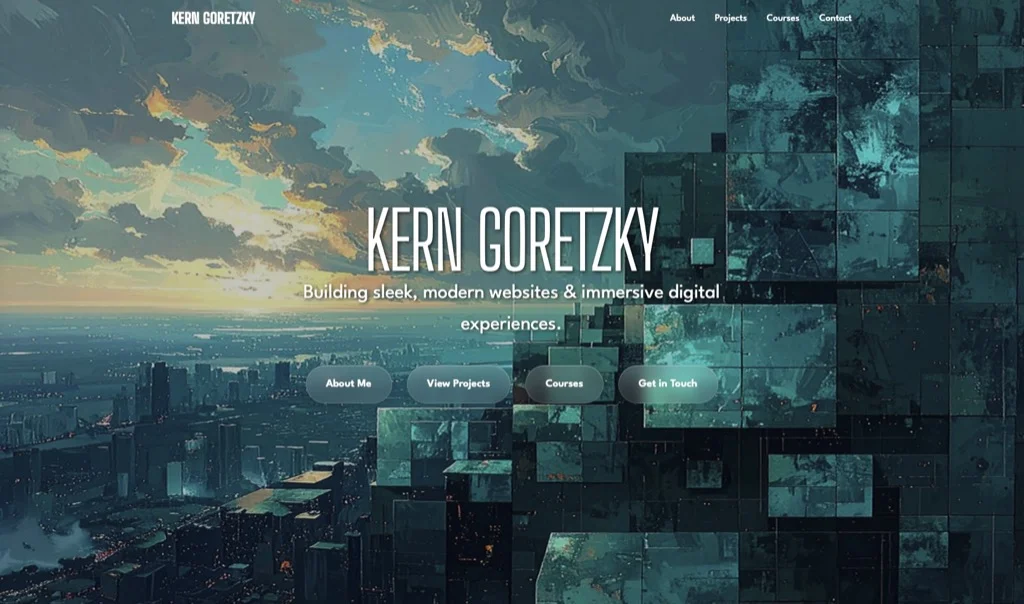
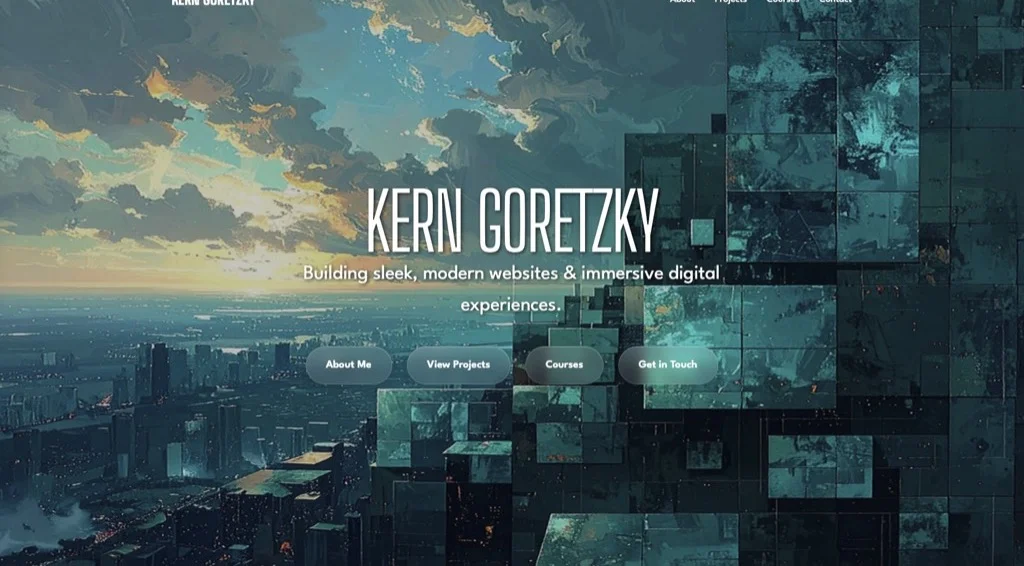
Standardize project images to 1.81:1 aspect ratio
- Crop kerngoretzky-ca images from 1.20:1 to 1.81:1 (remove bottom)
- Crop portfolio images from 1.70:1 to 1.81:1 (remove bottom)
- Regenerate all WebP variants from cropped JPGs
- Add project image guidelines to TODO-REMINDERS.md
- Ensures consistent letterboxing (top/bottom only) across all cards

🤖 Generated with [Claude Code](https://claude.com/claude-code)

diff --git a/TODO-REMINDERS.md b/TODO-REMINDERS.md
@@ -61,6 +61,19 @@
 - ✅ Contact (liquid glass form with cyan focus and proper labels)
 - ✅ Footer (social links and navigation)
 
+### Project Image Guidelines
+**IMPORTANT**: All project screenshots must follow these specifications:
+- **Aspect Ratio**: 1.81:1 (approximately 16:9)
+- **Standard Dimensions**:
+  - Main image: 1024×566px or 1661×918px
+  - 1024w variant: 1024×566px
+  - 768w variant: 768×424px
+  - 480w variant: 480×265px
+- **Format**: Both JPG and WebP versions required
+- **Cropping**: Preserve top content, crop from bottom if needed
+- **WebP Generation**: Use `cwebp -q 85 input.jpg -o output.webp`
+- This ensures consistent letterboxing (top/bottom only) across all project cards
+
 ---
 
-**Last Updated**: 2025-10-03
+**Last Updated**: 2025-10-06
